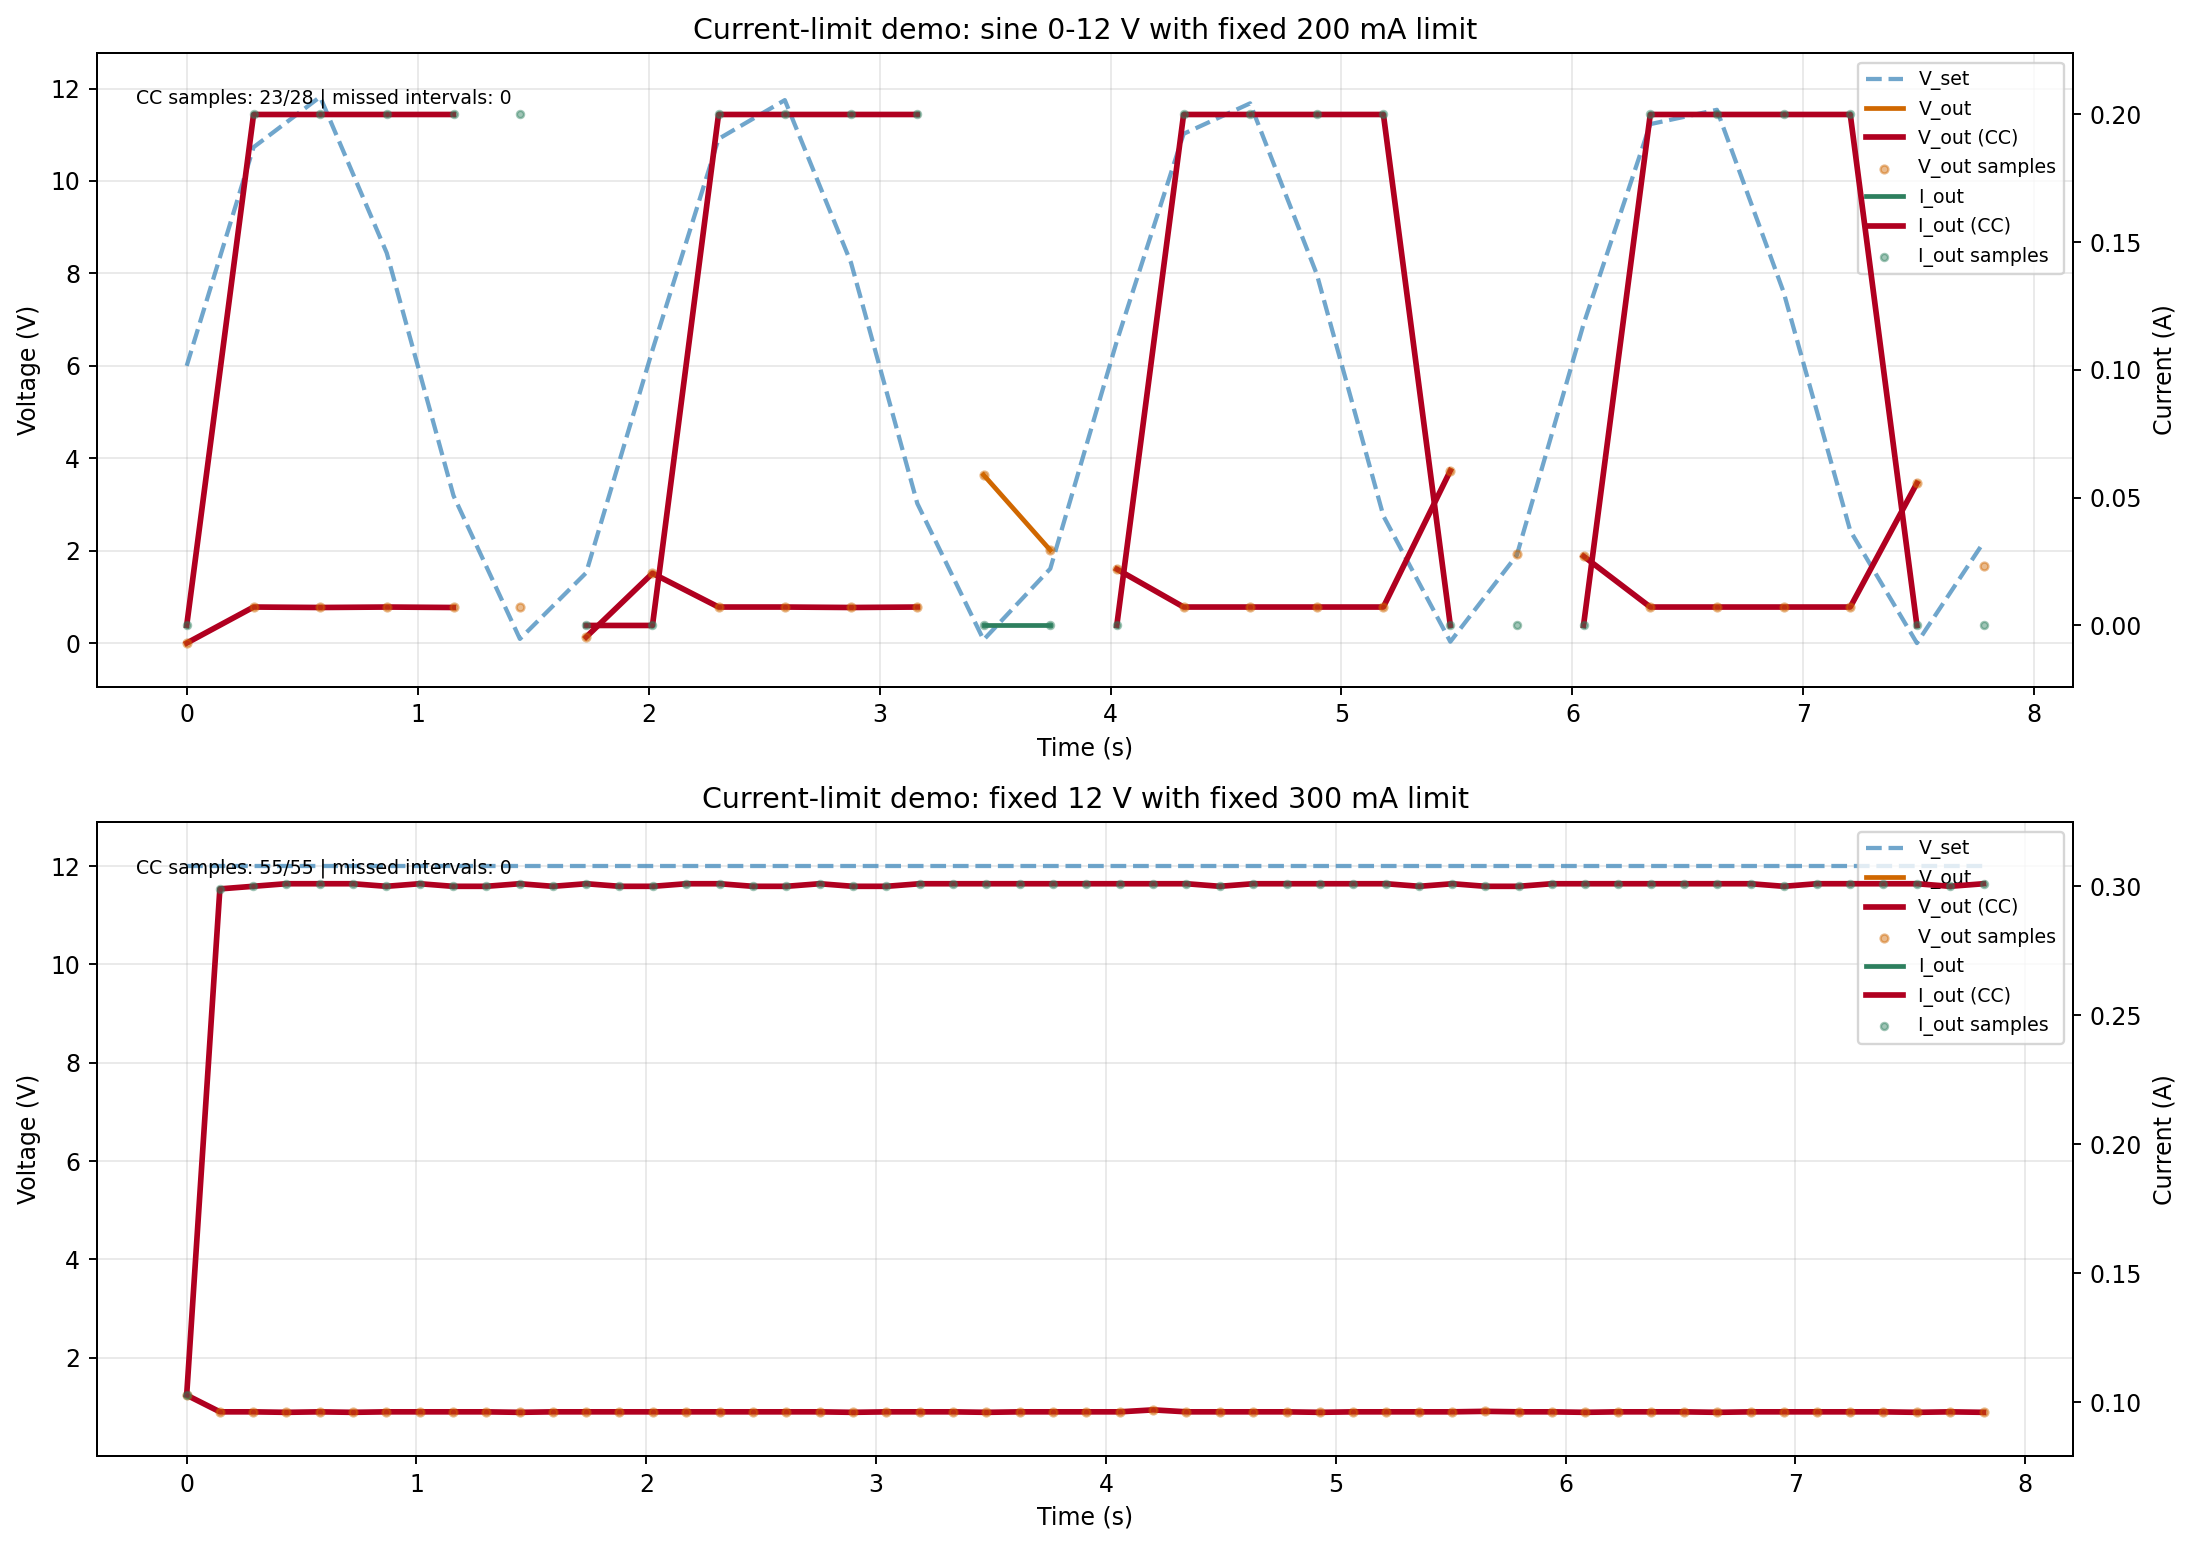
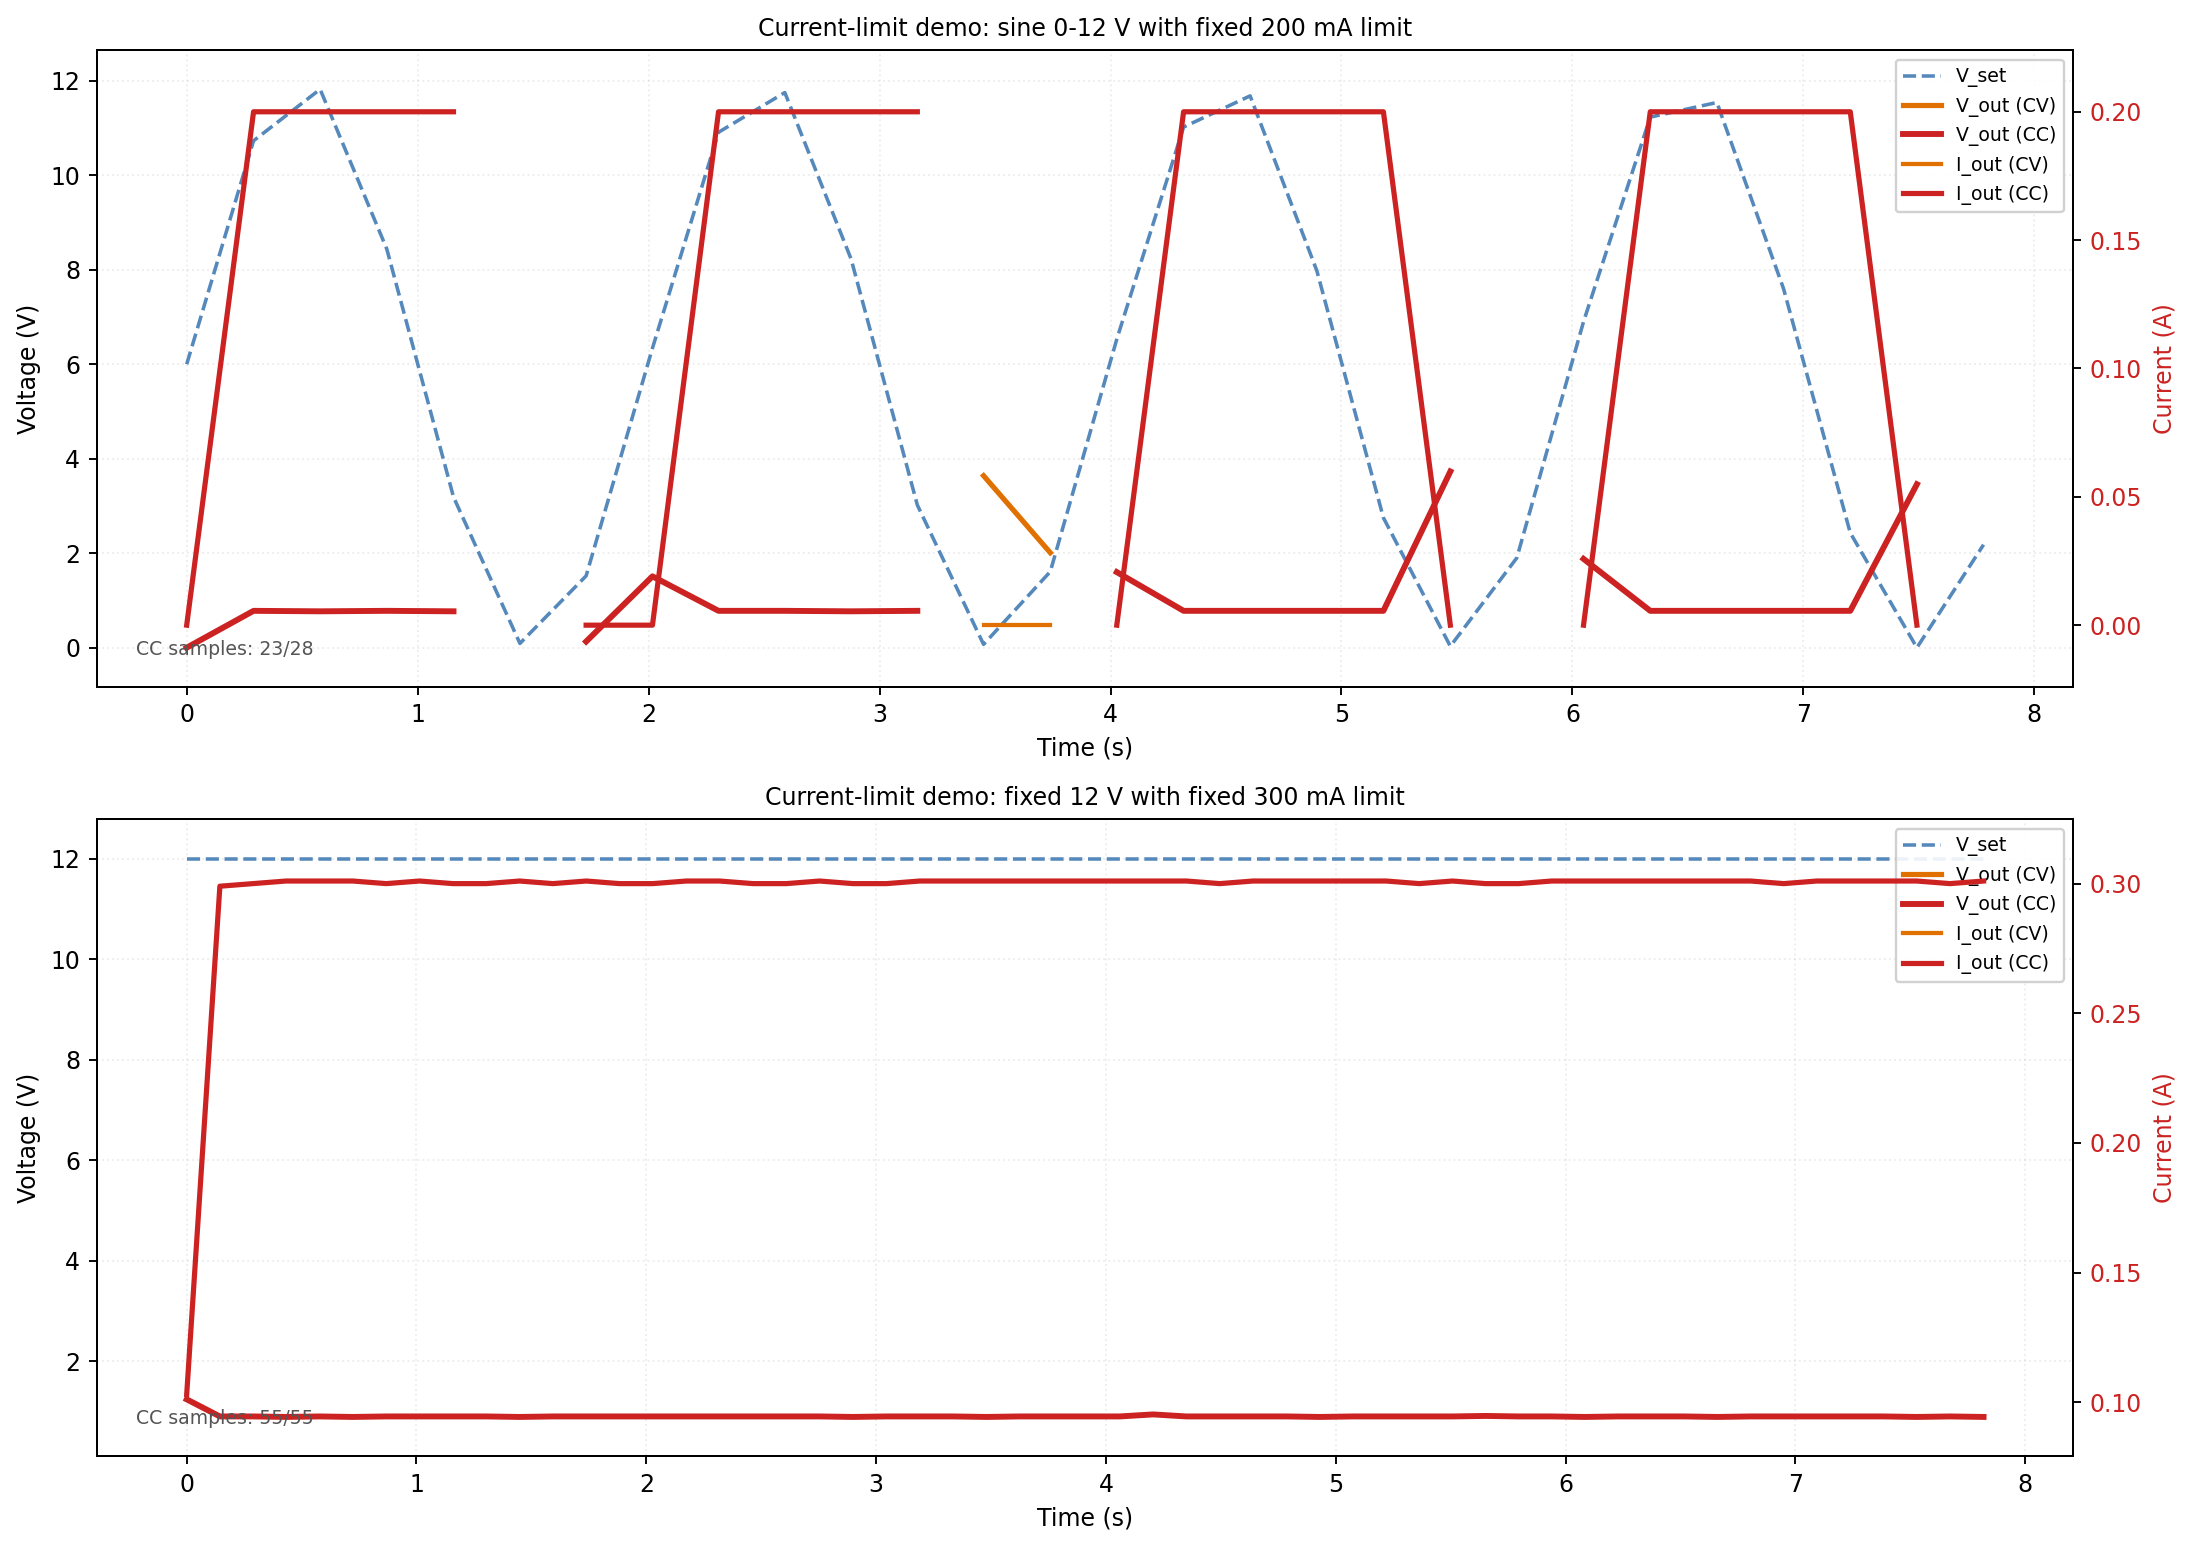
fix: remove shading from waveform plots, simplify readability

diff --git a/scripts/plot_waveforms.py b/scripts/plot_waveforms.py
@@ -38,76 +38,53 @@ def _period_plot(ax, rows, label, min_cycles=1.5):
         t0 = rows[0]["ts"]
         elapsed = np.array([r["ts"] - t0 for r in rows], dtype=float)
 
-    freq_hz = float(rows[0].get("freq_hz", 0.5))
-    freq_hz = max(freq_hz, 1e-6)
+    freq_hz = max(float(rows[0].get("freq_hz", 0.5)), 1e-6)
     cycles = elapsed * freq_hz
-
     cycles_max = float(np.max(cycles)) if len(cycles) else 0.0
     target_max = min_cycles if cycles_max >= min_cycles else cycles_max
     mask = cycles <= target_max
 
-    x = cycles[mask]
+    x     = cycles[mask]
     v_set = np.array([r.get("v_set", 0.0) for r in rows], dtype=float)[mask]
     v_out = np.array([r.get("v_out", 0.0) for r in rows], dtype=float)[mask]
     i_out = np.array([r.get("i_out", 0.0) for r in rows], dtype=float)[mask]
 
-    # Build smooth traces from sparse samples while keeping raw points visible.
     if len(x) >= 2:
-        x_dense = np.linspace(float(np.min(x)), float(np.max(x)), 320)
-        vs_dense = np.interp(x_dense, x, v_set)
-        vo_dense = np.interp(x_dense, x, v_out)
-        io_dense = np.interp(x_dense, x, i_out)
+        xd = np.linspace(float(x.min()), float(x.max()), 400)
+        vsd = np.interp(xd, x, v_set)
+        vod = np.interp(xd, x, v_out)
+        iod = np.interp(xd, x, i_out)
     else:
-        x_dense = x
-        vs_dense = v_set
-        vo_dense = v_out
-        io_dense = i_out
+        xd, vsd, vod, iod = x, v_set, v_out, i_out
 
-    ax.plot(x_dense, vs_dense, "--", linewidth=1.8, alpha=0.75, color="#4C90C0", label="V_set")
-    ax.plot(x_dense, vo_dense, "-", linewidth=2.2, color="#D06700", label="V_out")
-    ax.scatter(x, v_out, s=12, color="#D06700", alpha=0.6, zorder=3, label="V_out samples")
-    ax.set_xlim(0, max(1.5, float(np.max(x)) if len(x) else 1.5))
-    ax.set_xlabel("Cycle index (phase-0 markers at integers)")
+    ax.plot(xd, vsd, "--", lw=1.6, color="#5588BB", label="V_set")
+    ax.plot(xd, vod, "-",  lw=2.4, color="#E07000", label="V_out")
+    ax.set_xlim(0, max(1.5, float(x.max()) if len(x) else 1.5))
+    ax.set_xlabel("Cycles")
     ax.set_ylabel("Voltage (V)")
-    ax.set_title(label)
-    ax.grid(True, alpha=0.28)
+    ax.set_title(label, fontsize=10)
+    ax.grid(True, alpha=0.22, linestyle=":")
 
-    # Explicitly mark phase 0 for each cycle boundary.
-    max_cycle_line = int(np.ceil(float(np.max(x)) if len(x) else 0.0))
-    for c in range(0, max_cycle_line + 1):
-        ax.axvline(float(c), color="#777777", alpha=0.18, linewidth=1.0)
-
-    if len(x) > 0:
-        ax.scatter([x[0]], [v_out[0]], s=44, color="#B00020", zorder=5, label="sample @ cycle 0")
-
-    v_min = min(float(np.min(v_set)), float(np.min(v_out)))
-    v_max = max(float(np.max(v_set)), float(np.max(v_out)))
-    pad = max(0.25, 0.08 * (v_max - v_min))
+    v_min = min(float(v_set.min()), float(v_out.min()))
+    v_max = max(float(v_set.max()), float(v_out.max()))
+    pad = max(0.3, 0.07 * (v_max - v_min))
     ax.set_ylim(v_min - pad, v_max + pad)
 
     ax2 = ax.twinx()
-    ax2.plot(x_dense, io_dense, "-", linewidth=1.8, alpha=0.9, color="#CC2F2F", label="I_out")
-    ax2.scatter(x, i_out, s=10, color="#CC2F2F", alpha=0.5, zorder=3, label="I_out samples")
-    ax2.set_ylabel("Current (A)", color="#d62728")
-    ax2.tick_params(axis="y", labelcolor="#d62728")
-
-    i_min = float(np.min(i_out))
-    i_max = float(np.max(i_out))
-    i_pad = max(0.02, 0.12 * (i_max - i_min if i_max > i_min else 0.1))
+    ax2.plot(xd, iod, "-", lw=1.8, color="#CC2222", label="I_out")
+    ax2.set_ylabel("Current (A)", color="#CC2222")
+    ax2.tick_params(axis="y", labelcolor="#CC2222")
+    i_min, i_max = float(i_out.min()), float(i_out.max())
+    i_pad = max(0.02, 0.12 * max(i_max - i_min, 0.05))
     ax2.set_ylim(i_min - i_pad, i_max + i_pad)
 
     overshoot = float(np.max(v_out - v_set)) if len(v_out) else 0.0
-    ax.text(
-        0.02,
-        0.92,
-        f"max overshoot: {overshoot:.3f} V | plotted window: {max(1.5, float(np.max(x)) if len(x) else 1.5):.2f} cycles",
-        transform=ax.transAxes,
-        fontsize=8,
-    )
+    ax.text(0.02, 0.05, f"max overshoot: {overshoot:+.3f} V",
+            transform=ax.transAxes, fontsize=8, color="#555")
 
     h1, l1 = ax.get_legend_handles_labels()
     h2, l2 = ax2.get_legend_handles_labels()
-    ax.legend(h1 + h2, l1 + l2, loc="upper right", fontsize=8)
+    ax.legend(h1 + h2, l1 + l2, loc="upper right", fontsize=8, framealpha=0.9)
 
 
 def _clip_plot(ax, rows):
@@ -115,85 +92,46 @@ def _clip_plot(ax, rows):
         ax.set_title("Current-limited sine clipping (no data)")
         return
     t0 = rows[0]["ts"]
-    t = np.array([r["ts"] - t0 for r in rows])
-    v_set = np.array([r.get("v_set", 0.0) for r in rows])
-    v_out = np.array([r.get("v_out", 0.0) for r in rows])
-    i_out = np.array([r.get("i_out", 0.0) for r in rows])
-    cv = np.array([r.get("cv_cc", "CV") for r in rows])
-    prot = np.array([r.get("protect", "none") for r in rows])
+    t     = np.array([r["ts"] - t0            for r in rows], dtype=float)
+    v_set = np.array([r.get("v_set",    0.0)  for r in rows], dtype=float)
+    v_out = np.array([r.get("v_out",    0.0)  for r in rows], dtype=float)
+    i_out = np.array([r.get("i_out",    0.0)  for r in rows], dtype=float)
+    cc    = np.array([r.get("cv_cc",   "CV")  for r in rows])
+    prot  = np.array([r.get("protect", "none") for r in rows])
+    in_cc = cc == "CC"
 
-    ax.plot(t, v_set, "--", linewidth=1.8, alpha=0.75, color="#4C90C0", label="V_set")
-    ax.plot(t, v_out, "-", linewidth=2.2, color="#D06700", label="V_out")
-    ax.scatter(t, v_out, s=12, color="#D06700", alpha=0.6, zorder=3, label="V_out samples")
+    # V_set dashed, V_out solid; CC portion overdrawn in red.
+    ax.plot(t, v_set, "--", lw=1.5, color="#5588BB", label="V_set")
+    ax.plot(t, np.where(~in_cc, v_out, np.nan), "-", lw=2.2, color="#E07000", label="V_out (CV)")
+    ax.plot(t, np.where( in_cc, v_out, np.nan), "-", lw=2.5, color="#CC2222", label="V_out (CC)")
+
     ax.set_xlabel("Time (s)")
     ax.set_ylabel("Voltage (V)")
-    ax.grid(True, alpha=0.28)
-    ax.set_title("Sine under current limiting (clipping / CC transitions)")
+    ax.grid(True, alpha=0.22, linestyle=":")
+    ax.set_title("Sine under current limiting — CV=orange, CC=red")
 
-    v_min = min(float(np.min(v_set)), float(np.min(v_out)))
-    v_max = max(float(np.max(v_set)), float(np.max(v_out)))
+    v_min = min(float(v_set.min()), float(v_out.min()))
+    v_max = max(float(v_set.max()), float(v_out.max()))
     pad = max(0.25, 0.08 * (v_max - v_min))
     ax.set_ylim(v_min - pad, v_max + pad)
 
     ax2 = ax.twinx()
-    ax2.plot(t, i_out, "-", linewidth=1.8, alpha=0.9, color="#CC2F2F", label="I_out")
-    ax2.scatter(t, i_out, s=10, color="#CC2F2F", alpha=0.5, zorder=3, label="I_out samples")
-    ax2.set_ylabel("Current (A)", color="#d62728")
-    ax2.tick_params(axis="y", labelcolor="#d62728")
+    ax2.plot(t, np.where(~in_cc, i_out, np.nan), "-", lw=1.8, color="#E07000", label="I_out (CV)")
+    ax2.plot(t, np.where( in_cc, i_out, np.nan), "-", lw=2.2, color="#CC2222", label="I_out (CC)")
+    ax2.set_ylabel("Current (A)", color="#CC2222")
+    ax2.tick_params(axis="y", labelcolor="#CC2222")
+    i_min, i_max = float(i_out.min()), float(i_out.max())
+    ax2.set_ylim(i_min - max(0.01, 0.12*max(i_max-i_min,0.05)),
+                 i_max + max(0.01, 0.12*max(i_max-i_min,0.05)))
 
-    i_min = float(np.min(i_out))
-    i_max = float(np.max(i_out))
-    i_pad = max(0.01, 0.12 * (i_max - i_min if i_max > i_min else 0.05))
-    ax2.set_ylim(i_min - i_pad, i_max + i_pad)
-
-    in_cc = cv == "CC"
-    if np.any(in_cc):
-        start = None
-        for idx, is_cc in enumerate(in_cc):
-            if is_cc and start is None:
-                start = t[idx]
-            if (not is_cc) and start is not None:
-                ax.axvspan(start, t[idx], color="orange", alpha=0.15)
-                start = None
-        if start is not None:
-            ax.axvspan(start, t[-1], color="orange", alpha=0.15)
-
-    oc_idx = np.where(prot != "none")[0]
-    if len(oc_idx) > 0:
-        ax.scatter(t[oc_idx], v_out[oc_idx], color="black", s=14, label="protect != none")
-    ax.text(
-        0.02,
-        0.92,
-        f"CC samples: {int(np.sum(in_cc))} / {len(rows)} | protect events: {len(oc_idx)}",
-        transform=ax.transAxes,
-        fontsize=8,
-    )
+    n_oc = int(np.sum(prot != "none"))
+    ax.text(0.02, 0.05,
+            f"CC samples: {int(np.sum(in_cc))}/{len(rows)}  |  OCP events: {n_oc}",
+            transform=ax.transAxes, fontsize=8, color="#555")
 
     h1, l1 = ax.get_legend_handles_labels()
     h2, l2 = ax2.get_legend_handles_labels()
-    ax.legend(h1 + h2, l1 + l2, loc="upper right", fontsize=8)
-
-
-def _plot_series_with_cc(ax, x, y, cc_mask, base_label, base_color, cc_color):
-    if len(x) == 0:
-        return
-    y_base = np.where(cc_mask, np.nan, y)
-    y_cc = np.where(cc_mask, y, np.nan)
-    ax.plot(x, y_base, "-", linewidth=2.0, color=base_color, label=base_label)
-    ax.plot(x, y_cc, "-", linewidth=2.4, color=cc_color, label=f"{base_label} (CC)")
-
-
-def _mark_missed_intervals(ax, x):
-    if len(x) < 4:
-        return 0
-    dt = np.diff(x)
-    med = float(np.median(dt)) if len(dt) else 0.0
-    if med <= 0:
-        return 0
-    bad = np.where(dt > (2.2 * med))[0]
-    for i in bad:
-        ax.axvspan(x[i], x[i + 1], color="#b00020", alpha=0.15)
-    return int(len(bad))
+    ax.legend(h1 + h2, l1 + l2, loc="upper right", fontsize=8, framealpha=0.9)
 
 
 def _cc_demo_plot(ax, rows, title):
@@ -201,51 +139,45 @@ def _cc_demo_plot(ax, rows, title):
         ax.set_title(f"{title} (no data)")
         return
 
-    t0 = rows[0]["ts"]
-    t = np.array([r["ts"] - t0 for r in rows])
-    v_set = np.array([r.get("v_set", 0.0) for r in rows])
-    v_out = np.array([r.get("v_out", 0.0) for r in rows])
-    i_out = np.array([r.get("i_out", 0.0) for r in rows])
-    cv = np.array([r.get("cv_cc", "CV") for r in rows])
-    cc_mask = cv == "CC"
+    t0    = rows[0]["ts"]
+    t     = np.array([r["ts"] - t0            for r in rows], dtype=float)
+    v_set = np.array([r.get("v_set",    0.0)  for r in rows], dtype=float)
+    v_out = np.array([r.get("v_out",    0.0)  for r in rows], dtype=float)
+    i_out = np.array([r.get("i_out",    0.0)  for r in rows], dtype=float)
+    cc    = np.array([r.get("cv_cc",   "CV")  for r in rows])
+    in_cc = cc == "CC"
 
-    missed = _mark_missed_intervals(ax, t)
+    # V_set dashed reference; V_out CV=orange, CC=red.
+    ax.plot(t, v_set, "--", lw=1.5, color="#5588BB", label="V_set")
+    ax.plot(t, np.where(~in_cc, v_out, np.nan), "-", lw=2.2, color="#E07000", label="V_out (CV)")
+    ax.plot(t, np.where( in_cc, v_out, np.nan), "-", lw=2.5, color="#CC2222", label="V_out (CC)")
 
-    ax.plot(t, v_set, "--", linewidth=1.8, alpha=0.8, color="#4C90C0", label="V_set")
-    _plot_series_with_cc(ax, t, v_out, cc_mask, "V_out", "#D06700", "#B00020")
-    ax.scatter(t, v_out, s=11, color="#D06700", alpha=0.45, zorder=3, label="V_out samples")
-
-    ax2 = ax.twinx()
-    _plot_series_with_cc(ax2, t, i_out, cc_mask, "I_out", "#2D7F5E", "#B00020")
-    ax2.scatter(t, i_out, s=9, color="#2D7F5E", alpha=0.45, zorder=3, label="I_out samples")
-
-    ax.set_title(title)
+    ax.set_title(title, fontsize=10)
     ax.set_xlabel("Time (s)")
     ax.set_ylabel("Voltage (V)")
-    ax2.set_ylabel("Current (A)")
-    ax.grid(True, alpha=0.28)
+    ax.grid(True, alpha=0.22, linestyle=":")
 
-    v_min = min(float(np.min(v_set)), float(np.min(v_out)))
-    v_max = max(float(np.max(v_set)), float(np.max(v_out)))
-    v_pad = max(0.25, 0.08 * (v_max - v_min if v_max > v_min else 1.0))
+    v_min = min(float(v_set.min()), float(v_out.min()))
+    v_max = max(float(v_set.max()), float(v_out.max()))
+    v_pad = max(0.3, 0.07 * max(v_max - v_min, 0.5))
     ax.set_ylim(v_min - v_pad, v_max + v_pad)
 
-    i_min = float(np.min(i_out))
-    i_max = float(np.max(i_out))
-    i_pad = max(0.01, 0.12 * (i_max - i_min if i_max > i_min else 0.05))
+    ax2 = ax.twinx()
+    ax2.plot(t, np.where(~in_cc, i_out, np.nan), "-", lw=1.8, color="#E07000", label="I_out (CV)")
+    ax2.plot(t, np.where( in_cc, i_out, np.nan), "-", lw=2.2, color="#CC2222", label="I_out (CC)")
+    ax2.set_ylabel("Current (A)", color="#CC2222")
+    ax2.tick_params(axis="y", labelcolor="#CC2222")
+    i_min, i_max = float(i_out.min()), float(i_out.max())
+    i_pad = max(0.01, 0.12 * max(i_max - i_min, 0.05))
     ax2.set_ylim(i_min - i_pad, i_max + i_pad)
 
-    ax.text(
-        0.02,
-        0.92,
-        f"CC samples: {int(np.sum(cc_mask))}/{len(rows)} | missed intervals: {missed}",
-        transform=ax.transAxes,
-        fontsize=8,
-    )
+    ax.text(0.02, 0.05,
+            f"CC samples: {int(np.sum(in_cc))}/{len(rows)}",
+            transform=ax.transAxes, fontsize=8, color="#555")
 
     h1, l1 = ax.get_legend_handles_labels()
     h2, l2 = ax2.get_legend_handles_labels()
-    ax.legend(h1 + h2, l1 + l2, loc="upper right", fontsize=8)
+    ax.legend(h1 + h2, l1 + l2, loc="upper right", fontsize=8, framealpha=0.9)
 
 
 def main() -> int: